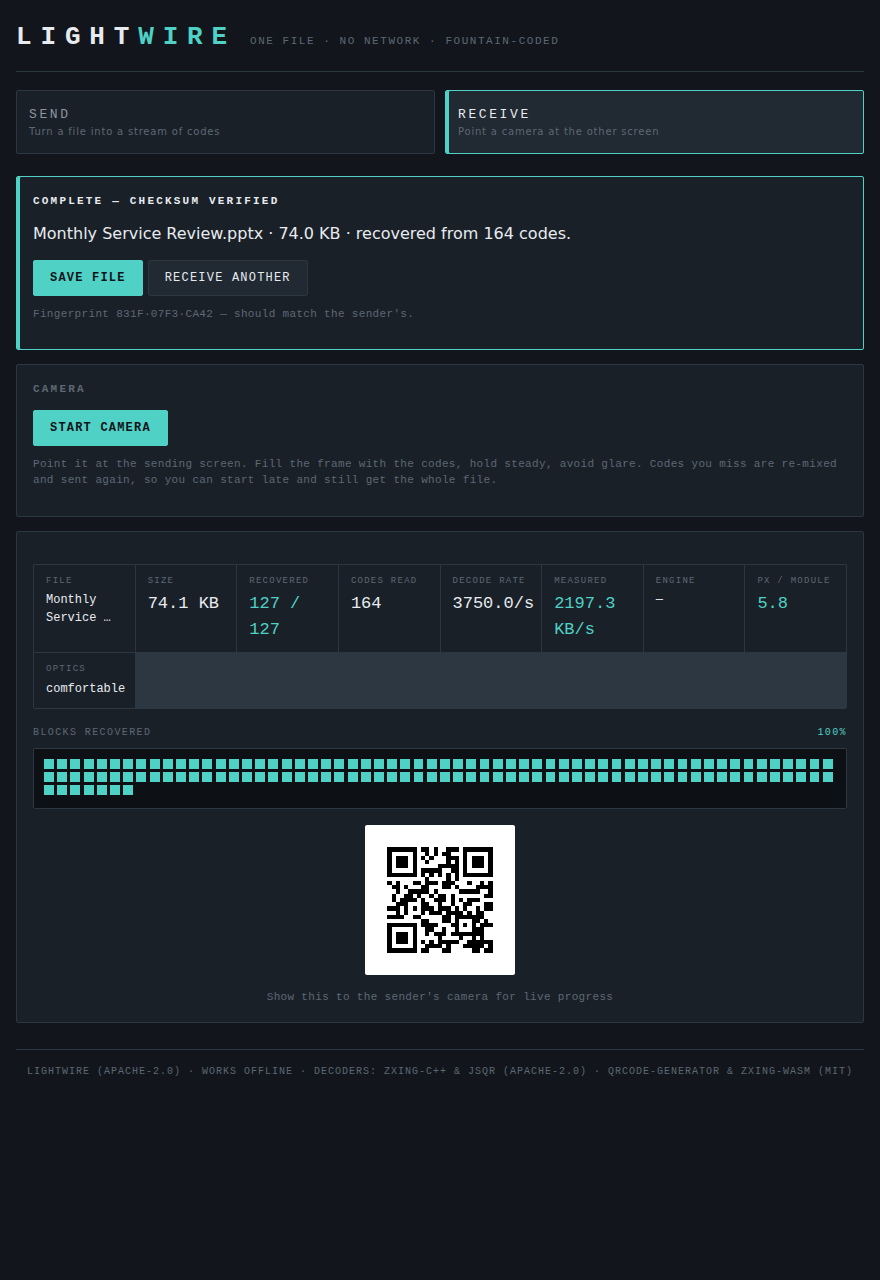
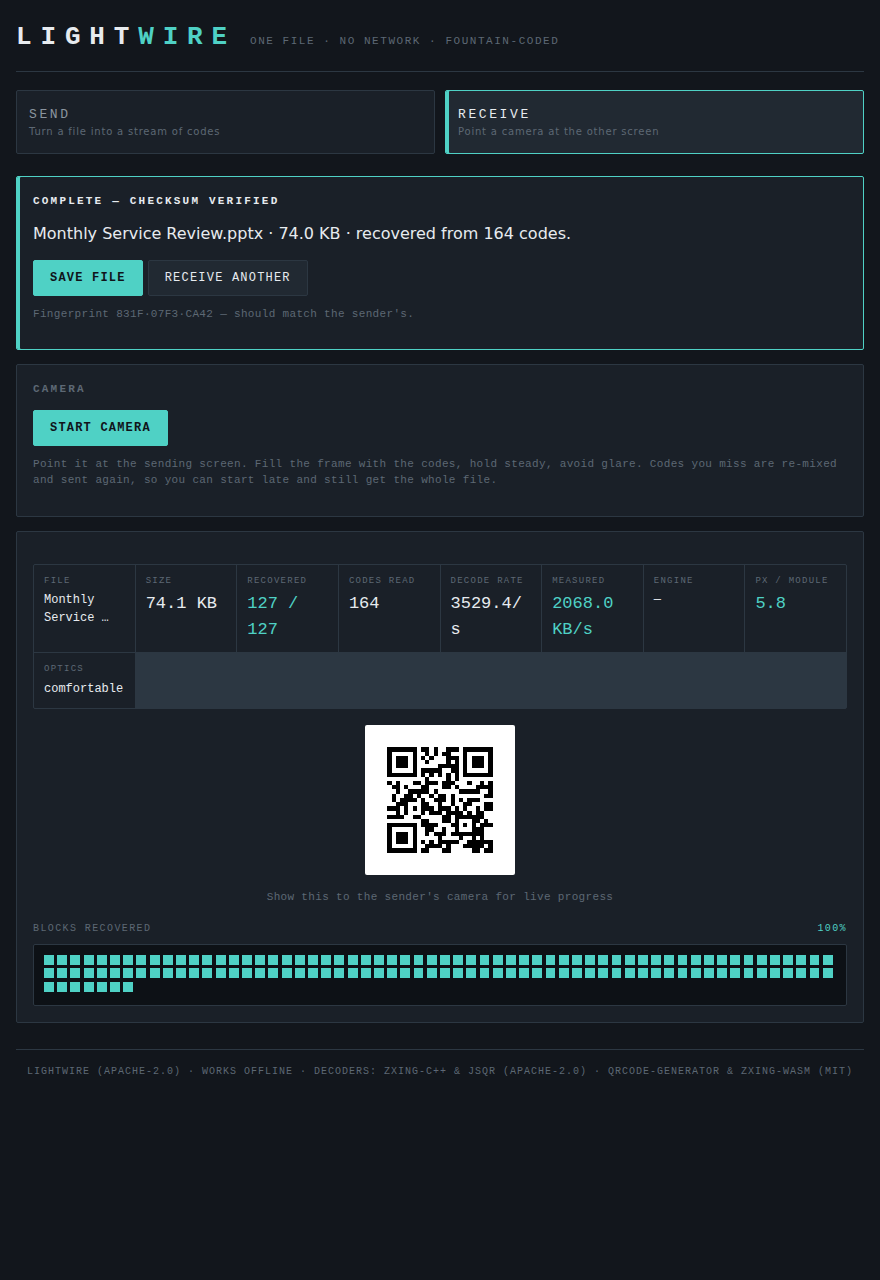
Stop a large file pushing the ACK code off the screen
Two causes, both fixed.

The ACK code sat under the block grid, and the block grid grows with the
file. It is drawn at 4px per block and stretched to the panel width, so its
height on screen is (rows / columns) x that width. Columns were fixed at 100,
so a 12 MB transfer at 800 B per block gives 16,476 blocks in 165 rows -- a
grid two thirds taller than the panel is wide, and everything below it off
the bottom of the window. Including the one thing the sender's camera has to
be able to see.

- The ACK code moves above the grid, so nothing the transfer needs sits
  downstream of something that grows without limit.
- The grid now widens instead of deepening once it would be more than a third
  as tall as it is wide. 12 MB goes from 100x165 to 212x78, and 32 MB -- the
  input cap -- still lands around 310px on a 900px panel. Files small enough
  never to trip the ratio keep their existing layout exactly.

Measured in an 800px window at 12.57 MB: the ACK code starts 495px down,
where before it was past the fold.

Also: the readout cells no longer let a long value ('comfortable') spill into
the neighbouring cell.

Claude-Session: https://claude.ai/code/session_019RYv14hn318AusjjKLAFws

diff --git a/dist/lightwire.html b/dist/lightwire.html
@@ -84,9 +84,9 @@ input[type=password]{font-family:var(--mono);font-size:13px;background:var(--pan
 .card:fullscreen .qgrid{width:min(97vw,97vh)}
 
 .readout{display:grid;grid-template-columns:repeat(auto-fit,minmax(96px,1fr));gap:1px;background:var(--line);border:1px solid var(--line);border-radius:2px;overflow:hidden}
-.cell{background:var(--panel);padding:10px 12px}
+.cell{background:var(--panel);padding:10px;min-width:0}
 .cell dt{font-family:var(--mono);font-size:9px;letter-spacing:.14em;text-transform:uppercase;color:var(--dim);margin:0}
-.cell dd{margin:3px 0 0;font-family:var(--mono);font-size:17px;color:var(--ink)}
+.cell dd{margin:3px 0 0;font-family:var(--mono);font-size:17px;color:var(--ink);overflow-wrap:break-word}
 .cell dd.hi{color:var(--accent)}
 .cell dd.sm{font-size:12px}
 
@@ -299,12 +299,15 @@ footer{font-family:var(--mono);font-size:10px;color:var(--dim);letter-spacing:.1
       <div class="cell"><dt>Px / module</dt><dd id="rPpm" class="hi">—</dd></div>
       <div class="cell"><dt>Optics</dt><dd id="rVerdict" class="sm">—</dd></div>
     </dl>
-    <div class="covlabel" style="margin-top:16px"><span>Blocks recovered</span><b id="covPct">0%</b></div>
-    <div class="coverage"><canvas id="cov"></canvas></div>
+    <!-- The ACK code sits above the block grid on purpose. The grid grows with
+         the file, and anything below it gets pushed off a large transfer's
+         screen -- including the one thing the sender's camera needs to see. -->
     <div class="stage" style="margin-top:16px">
       <div class="card small"><canvas id="ackQr"></canvas></div>
       <p class="note" style="text-align:center;margin:0">Show this to the sender's camera for live progress</p>
     </div>
+    <div class="covlabel" style="margin-top:16px"><span>Blocks recovered</span><b id="covPct">0%</b></div>
+    <div class="coverage"><canvas id="cov"></canvas></div>
   </div>
 </section>
 
@@ -13995,6 +13998,17 @@ function drawCoverage(){
   var cvs=$("cov"), K=dec.K;
   var cols=Math.min(K,K>600?100:60);
   var rows=Math.ceil(K/cols);
+  /* The canvas is drawn at 4px per block and then stretched to the panel width,
+     so its height on screen is (rows/cols) x that width. At a fixed 100 columns
+     a 12 MB file gives 158 rows -- a grid half again as tall as the panel is
+     wide, which pushes everything under it off the screen. Widen the grid
+     instead until it is no more than a third as tall as it is wide. Small
+     files never trip this, so their layout is unchanged. */
+  var MAX_RATIO=0.35;
+  if(rows>cols*MAX_RATIO){
+    cols=Math.min(K,Math.ceil(Math.sqrt(K/MAX_RATIO)));
+    rows=Math.ceil(K/cols);
+  }
   cvs.width=cols*4; cvs.height=rows*4;
   var g=cvs.getContext("2d");
   g.fillStyle="#0D1116"; g.fillRect(0,0,cvs.width,cvs.height);

diff --git a/src/template.html b/src/template.html
@@ -69,9 +69,9 @@ input[type=password]{font-family:var(--mono);font-size:13px;background:var(--pan
 .card:fullscreen .qgrid{width:min(97vw,97vh)}
 
 .readout{display:grid;grid-template-columns:repeat(auto-fit,minmax(96px,1fr));gap:1px;background:var(--line);border:1px solid var(--line);border-radius:2px;overflow:hidden}
-.cell{background:var(--panel);padding:10px 12px}
+.cell{background:var(--panel);padding:10px;min-width:0}
 .cell dt{font-family:var(--mono);font-size:9px;letter-spacing:.14em;text-transform:uppercase;color:var(--dim);margin:0}
-.cell dd{margin:3px 0 0;font-family:var(--mono);font-size:17px;color:var(--ink)}
+.cell dd{margin:3px 0 0;font-family:var(--mono);font-size:17px;color:var(--ink);overflow-wrap:break-word}
 .cell dd.hi{color:var(--accent)}
 .cell dd.sm{font-size:12px}
 
@@ -284,12 +284,15 @@ footer{font-family:var(--mono);font-size:10px;color:var(--dim);letter-spacing:.1
       <div class="cell"><dt>Px / module</dt><dd id="rPpm" class="hi">—</dd></div>
       <div class="cell"><dt>Optics</dt><dd id="rVerdict" class="sm">—</dd></div>
     </dl>
-    <div class="covlabel" style="margin-top:16px"><span>Blocks recovered</span><b id="covPct">0%</b></div>
-    <div class="coverage"><canvas id="cov"></canvas></div>
+    <!-- The ACK code sits above the block grid on purpose. The grid grows with
+         the file, and anything below it gets pushed off a large transfer's
+         screen -- including the one thing the sender's camera needs to see. -->
     <div class="stage" style="margin-top:16px">
       <div class="card small"><canvas id="ackQr"></canvas></div>
       <p class="note" style="text-align:center;margin:0">Show this to the sender's camera for live progress</p>
     </div>
+    <div class="covlabel" style="margin-top:16px"><span>Blocks recovered</span><b id="covPct">0%</b></div>
+    <div class="coverage"><canvas id="cov"></canvas></div>
   </div>
 </section>
 
@@ -1275,6 +1278,17 @@ function drawCoverage(){
   var cvs=$("cov"), K=dec.K;
   var cols=Math.min(K,K>600?100:60);
   var rows=Math.ceil(K/cols);
+  /* The canvas is drawn at 4px per block and then stretched to the panel width,
+     so its height on screen is (rows/cols) x that width. At a fixed 100 columns
+     a 12 MB file gives 158 rows -- a grid half again as tall as the panel is
+     wide, which pushes everything under it off the screen. Widen the grid
+     instead until it is no more than a third as tall as it is wide. Small
+     files never trip this, so their layout is unchanged. */
+  var MAX_RATIO=0.35;
+  if(rows>cols*MAX_RATIO){
+    cols=Math.min(K,Math.ceil(Math.sqrt(K/MAX_RATIO)));
+    rows=Math.ceil(K/cols);
+  }
   cvs.width=cols*4; cvs.height=rows*4;
   var g=cvs.getContext("2d");
   g.fillStyle="#0D1116"; g.fillRect(0,0,cvs.width,cvs.height);

diff --git a/screenshots/README.md b/screenshots/README.md
@@ -14,6 +14,7 @@ Captured from headless test runs (no real camera involved).
 | `shot6-calibrating.png` | Sender: mid-sweep on setting 3 of 6, showing the codes it is actually managing to paint. |
 | `shot6-cal-results.png` | Sender: the ladder with per-setting paint rates, two settings flagged sender-limited, and the receiver's verdict arrived over the ACK channel. |
 | `shot6-recv-verdict.png` | Receiver: all six settings scored, the winner picked on measured KB/s rather than code rate, and the prediction marked as a prediction. |
+| `shot7-bigfile.png` | Receiver on a 12.57 MB transfer (16,476 blocks) in an 800 px window: the ACK code stays on screen, and the block grid widens instead of growing 158 rows deep. |
 
 The `shot6-*` figures come from a simulated optical link — frames are handed to
 the decoder with a code width in camera pixels — so the KB/s and px/module
